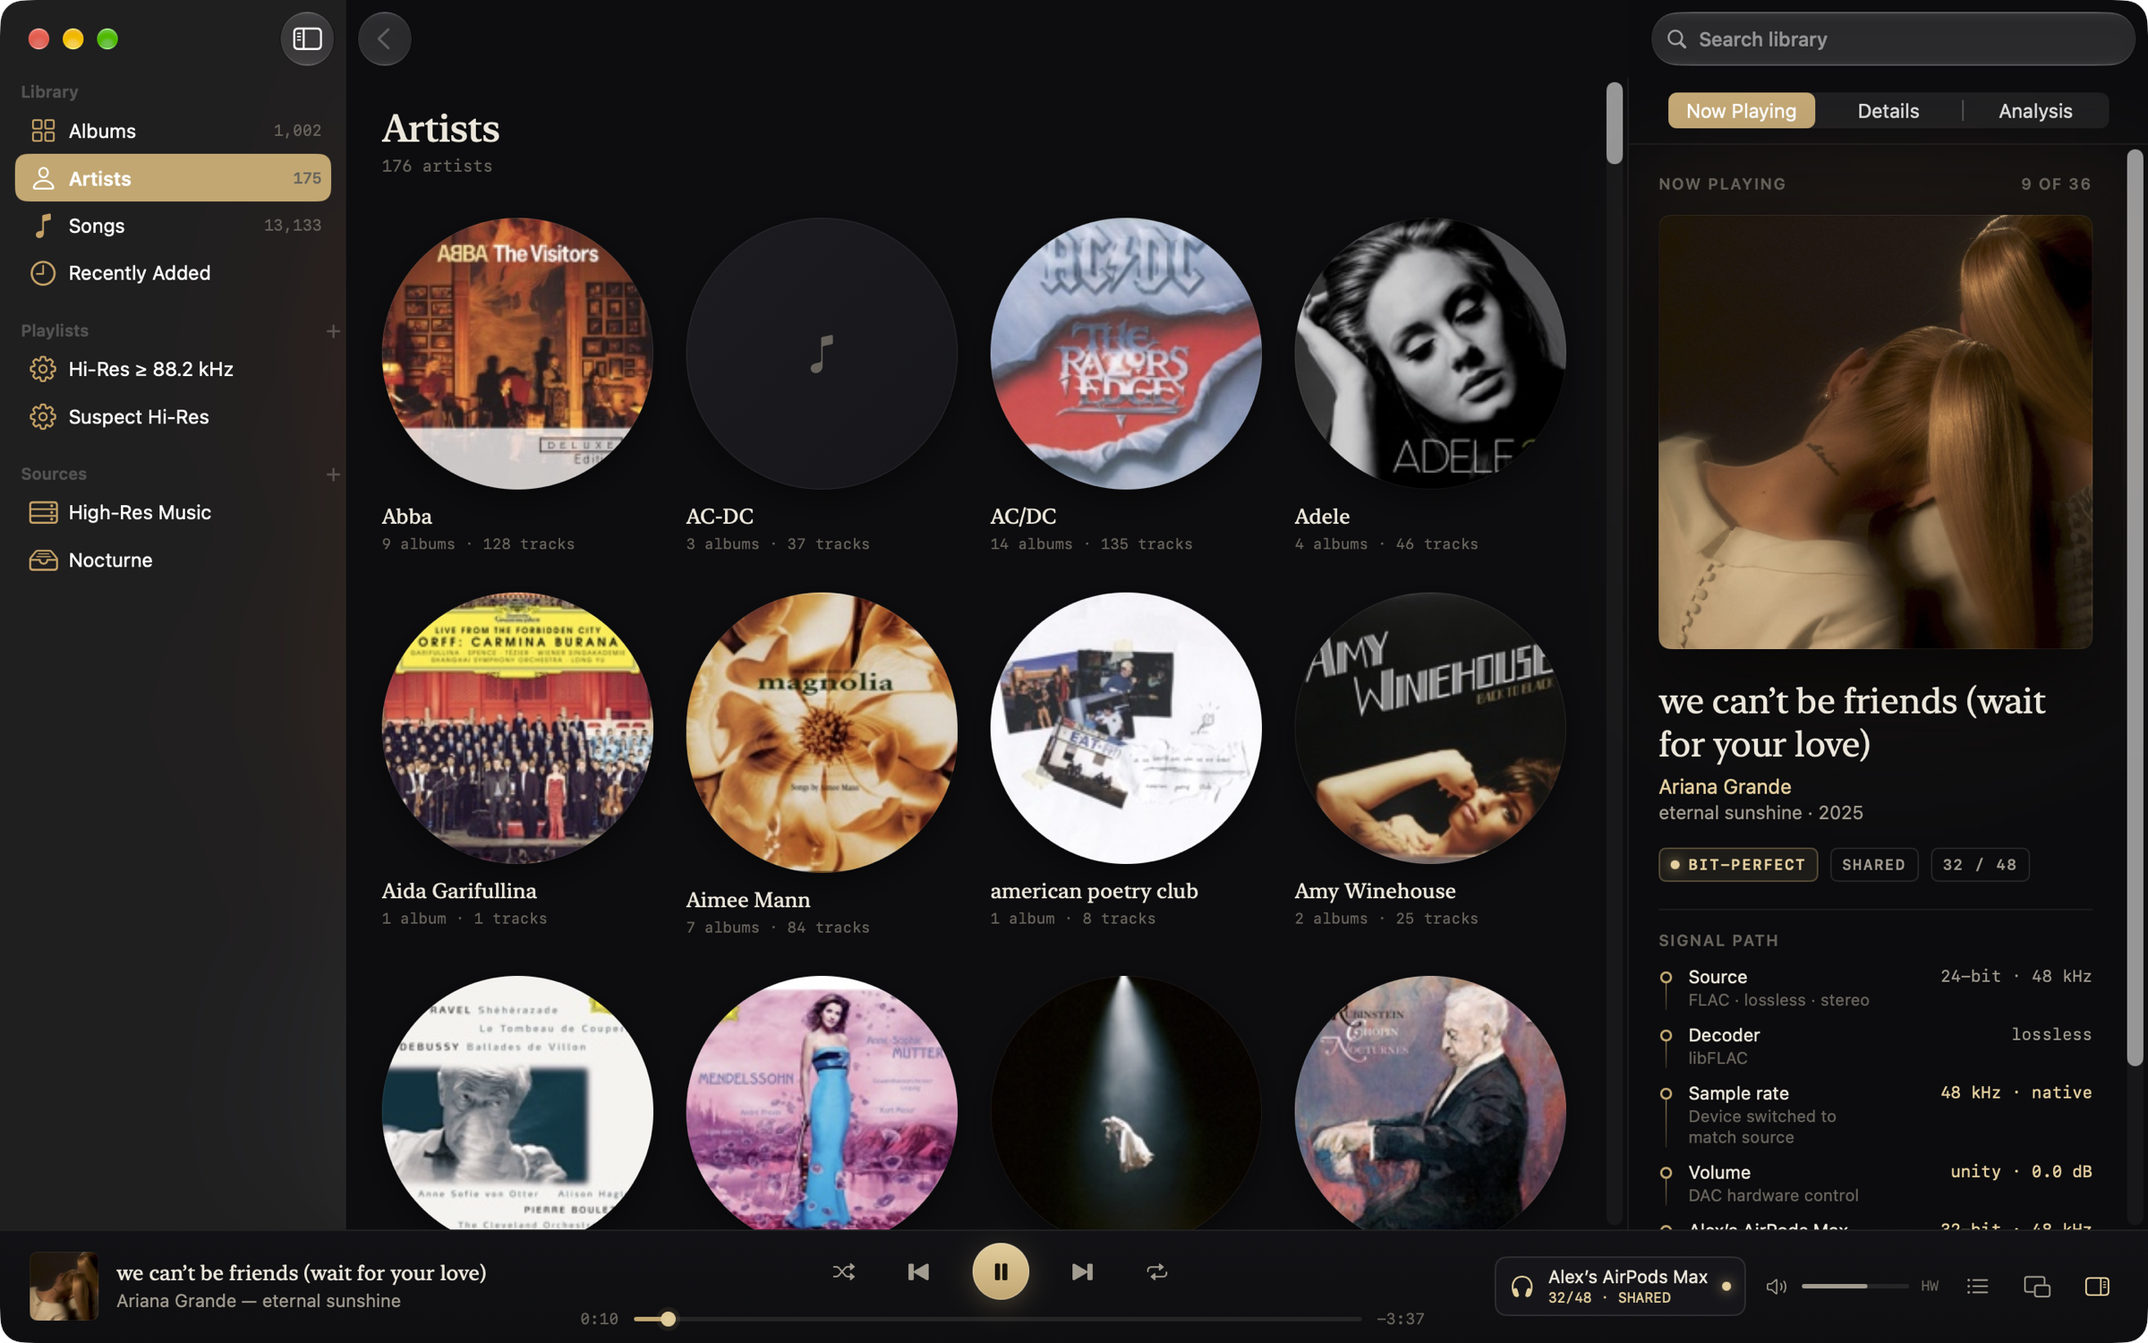
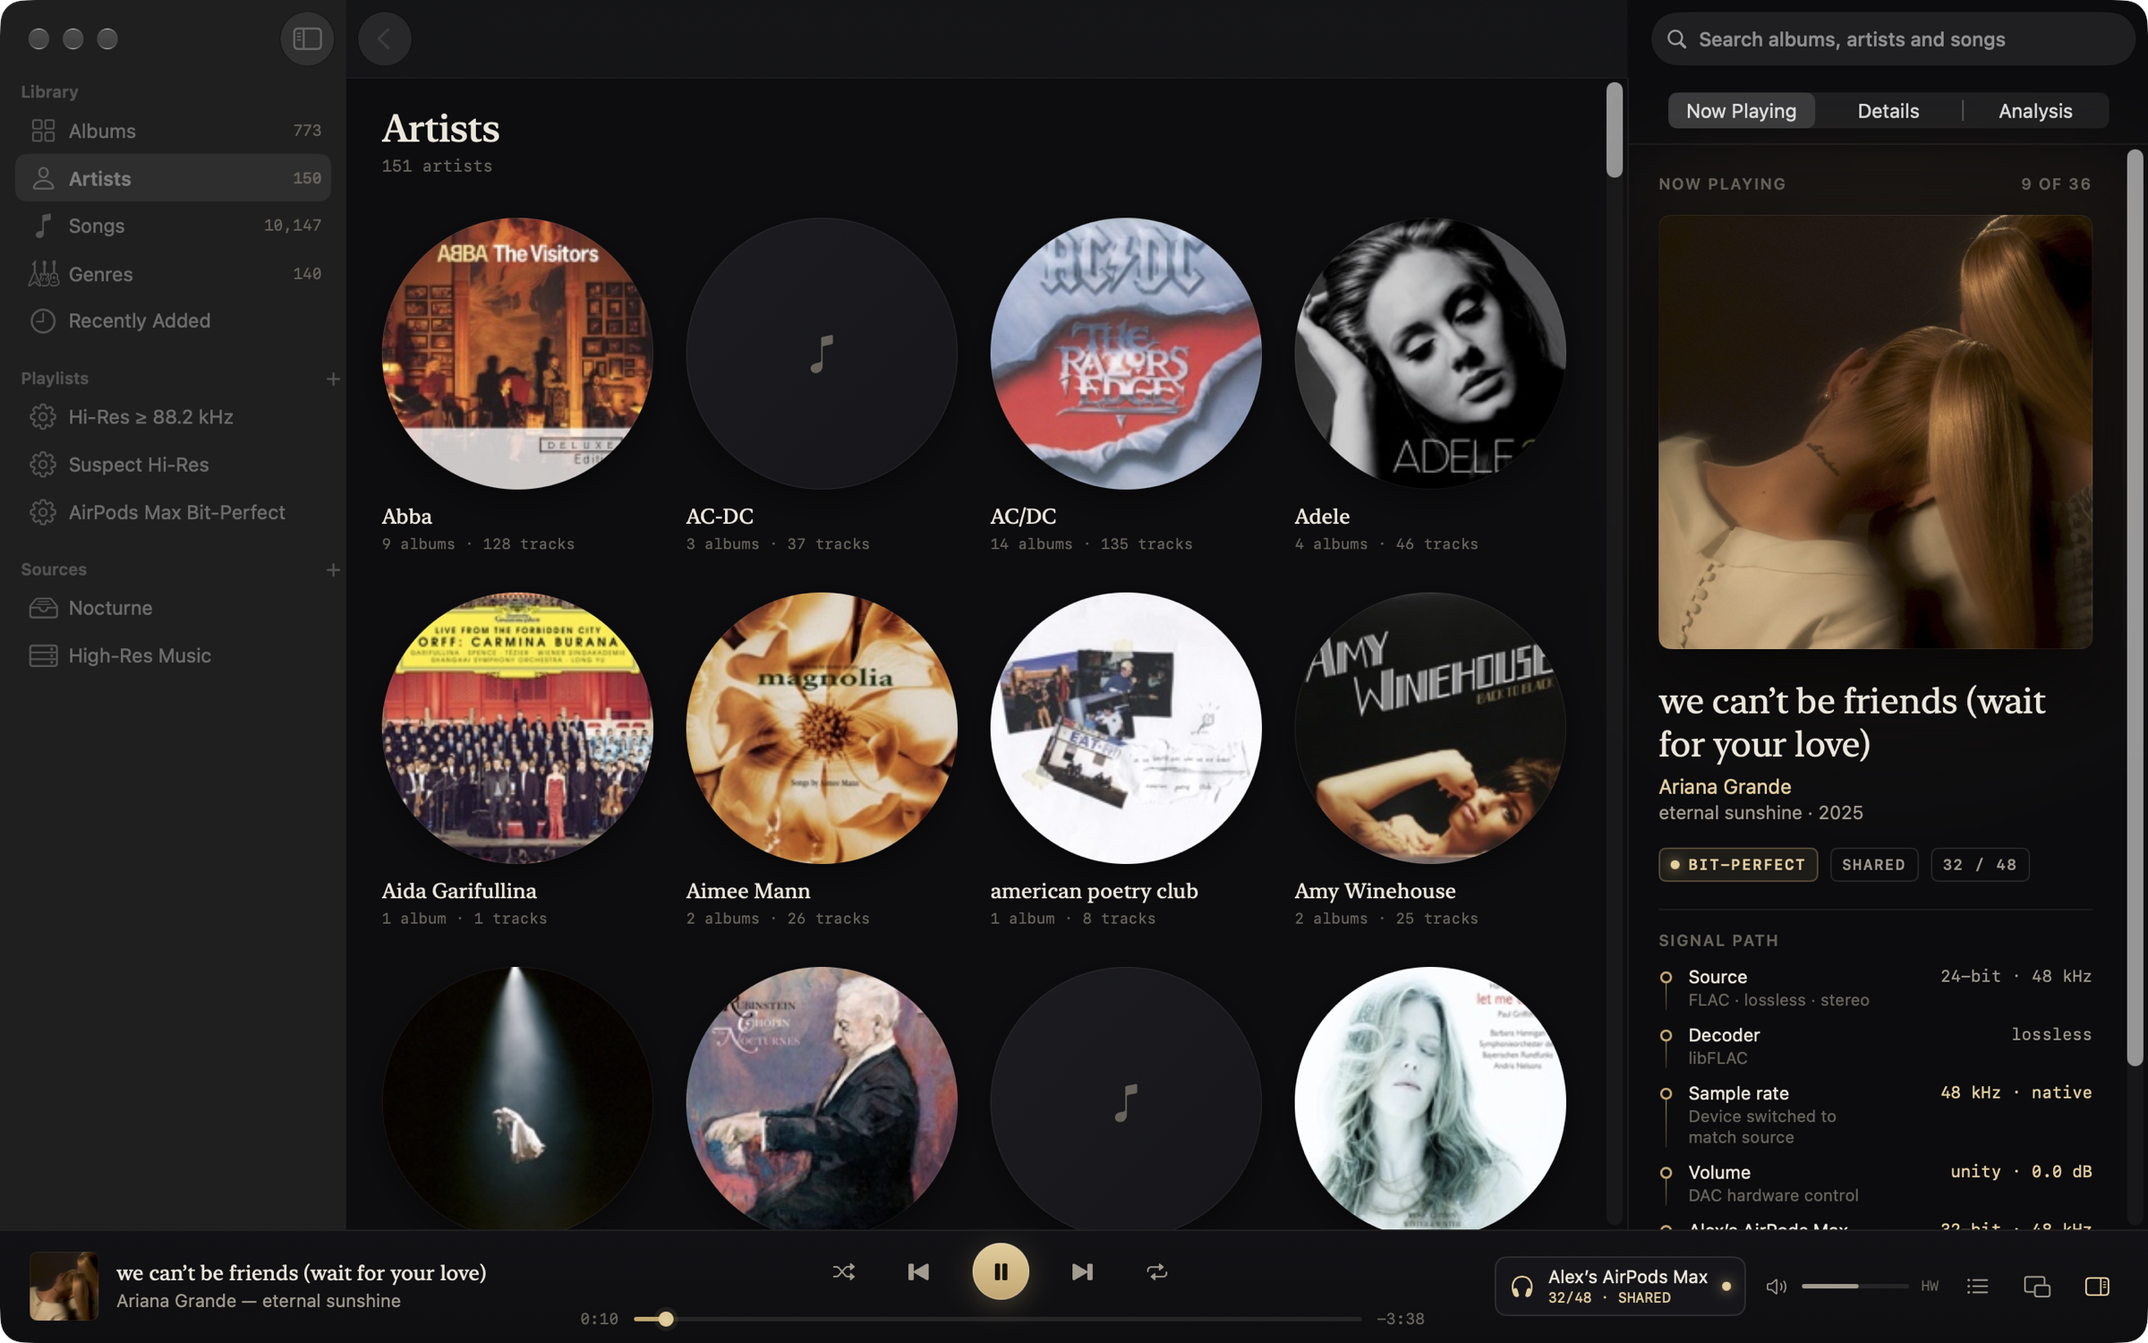
Docs: current screenshots and features; architecture for shares, analysis core, spatial
- Retaken screenshots from the real app (cleaned library): Spatial Audio,
  bit-perfect on FiiO K11 and AirPods Max, fake hi-res analysis; new Genres,
  Search and Smart Playlist shots
- README: genres/search/smart playlists highlights, DAC hand-back, share
  self-healing and rescans, NocturneAnalysis package, audit, CLI commands
- ARCHITECTURE: shared-by-default output, bit-perfect definition, network
  shares, analysis core/server, multichannel, library deletions and genres

diff --git a/README.md b/README.md
@@ -46,6 +46,21 @@ Upsampled, padded, lossy-origin and "AI-enhanced" files are detected, with the e
 
 ![The Analysis tab flagging a track as having synthetic high frequencies, with its long-term spectrum](docs/screenshots/fake-hi-res-detection.png)
 
+### Browse like Apple Music
+Albums, artists, songs and **genres**, with Genre, Decade and format filters. Messy tags are handled: "Hip-Hop" and "hip hop" are one genre, multi-genre tags count under each, and localized genre names are merged.
+
+![The Genres page: a tile per genre with a mosaic of its covers](docs/screenshots/genres.png)
+
+### Search finds everything
+Artists, albums (by title, artist, genre or year) and songs, in one place. Every word you type has to match, ignoring case and accents.
+
+![Searching "fleetwood": the artist, 18 albums and 265 songs](docs/screenshots/search.png)
+
+### Smart playlists that speak your language
+Rules use the units shown everywhere else (48 kHz, 24-bit), so "every 24-bit / 48 kHz track" is one rule away. Here that playlist plays bit-perfect on AirPods Max.
+
+![A smart playlist of every 24-bit / 48 kHz track, playing bit-perfect on AirPods Max](docs/screenshots/smart-playlist.png)
+
 ### A mini player that still tells the truth
 
 <p align="center"><img src="docs/screenshots/mini-player.png" width="520" alt="Nocturne's mini player"></p>
@@ -54,18 +69,19 @@ Upsampled, padded, lossy-origin and "AI-enhanced" files are detected, with the e
 
 - **Automatic device format.** Each track's rate is matched on the device (16/44.1, 24/96, 24/192, 352.8…). If the device can't run at that rate, Nocturne converts with Apple's mastering-quality resampler. It prefers a rate in the same family (44.1 → 88.2), then the nearest higher rate, then an integer divisor (384 → 192). Per-device overrides: *match source*, *device maximum* or a fixed rate.
 - **Shared or exclusive.** By default Nocturne shares the device and makes it the Mac's sound output while it plays, so volume keys, Control Center and the AirPods Max Digital Crown control what you hear. Playback is still bit-perfect unless another app plays through the same device at the same time, and Nocturne says so when that happens. **Exclusive (hog) mode** is one switch away if you'd rather silence other apps on the device (macOS then sends volume keys elsewhere); the device is released after a configurable pause.
+- **Hands your DAC back.** When Nocturne quits, each device it switched goes back to the sample rate and bit depth it had before (so other apps, and tools like LosslessSwitcher, carry on where they left off), or to 44.1 kHz · 16-bit or 48 kHz · 24-bit if you prefer.
 - **AirPods Max / AirPods Max 2 over USB-C.** These are recognized as lossless 24-bit / 48 kHz devices. 48 kHz material plays bit-perfect and everything else is converted to 48 kHz. Over Bluetooth, Nocturne tells you the link is AAC.
 - **DSD.** DSD goes to the DAC as DoP on DACs you mark as DoP-capable (off by default, because DoP sent to a non-DoP DAC is noise). Otherwise it's converted to high-rate PCM.
 - **A truthful signal path.** *BIT-PERFECT* (brass) appears only when the rate is native, nothing touches the samples, no other app is mixing into the device and the word length fits. Every other state is shown in copper with the reason.
 - **Gapless playback** across tracks that share a device format, including CUE-sheet albums split from a single file.
 - **Volume.** Nocturne uses the DAC's hardware volume when it has one. Optionally, a 64-bit dithered digital volume can be enabled; it's clearly marked as not bit-perfect.
 - **Find Music on This Mac.** Spotlight searches every drive. Each file's true format is checked, and hi-res, lossless or all music can be picked by folder or by file. Recordings, prompts, clips and duplicate copies are left out.
-- **Library.** Folders are referenced in place and watched for changes, or you can *Import & Organize* to copy music into `~/Music/Nocturne`. On the same drive the copies are APFS clones and take no extra space. It keeps albums, artists, songs, full-text search (accent-insensitive), playlists and smart playlists. Files on unplugged drives stay in the library and show as offline.
+- **Library.** Folders are referenced in place and watched for changes, or you can *Import & Organize* to copy music into `~/Music/Nocturne`. On the same drive the copies are APFS clones and take no extra space. It keeps albums, artists, songs and genres, with Genre, Decade and format filters; search across artists, albums (title, artist, genre, year) and songs (accent-insensitive); playlists; and smart playlists whose rules use the same units as the rest of the app. Files on unplugged drives stay in the library and show as offline; files you delete disappear from every list on the next scan (and come back if you restore them).
 - **Rich metadata editing** for single tracks or batches, written into the files via TagLib (Vorbis comments, ID3v2, MP4, APE). It covers artwork, sort fields, lyrics and custom tags. Each file is cloned to a backup (instant on APFS) and the previous tags are kept for one-step revert.
 - **Enrich Metadata.** Missing titles, artists, albums, years, track numbers and cover art are filled in from structured file names and **MusicBrainz / Cover Art Archive**. Each proposal shows its source and confidence before anything is written.
 - **MusicBrainz and Cover Art Archive** lookup and correction, and **ListenBrainz** scrobbling (optional; the token is kept in the Keychain).
 - **Multichannel and Spatial Audio.** 5.0, 5.1, 7.1 and other multichannel files play everywhere: rendered with Apple's Spatial Audio (head tracked or fixed, with your personalized profile) on AirPods and Beats, sent channel-for-channel to multichannel interfaces and AV receivers (following your speaker setup, even when HDMI is left in 2-channel mode), or downmixed by layout on stereo DACs. The signal path always says which, with a live meter for every channel. **Export for Spatial Audio** turns them into binaural stereo that sounds spatial on any headphones, or multichannel ALAC for Apple devices.
-- **Network shares.** Connect to SMB, NFS or WebDAV shares on your network or over Tailscale/VPN (⌘K). Read-only by default, reconnects by itself, indexes quickly over slow links, rides out slow reads without stuttering, and caches what you play (with **Keep Offline** for whole albums).
+- **Network shares.** Connect to SMB, NFS or WebDAV shares on your network or over Tailscale/VPN (⌘K). Read-only by default and mounted where macOS keeps network volumes (hidden from the Finder sidebar). They heal themselves: Nocturne reconnects after sleep, network changes and server restarts, and remounts a share that has stopped answering. Shares are rescanned every half hour (never while you're playing from them), so music added to or deleted from the server shows up by itself. Indexing is quick over slow links, playback rides out slow reads without stuttering, and what you play is cached (with **Keep Offline** for whole albums). Passwords live in the login keychain alongside Finder's.
 - **Fake hi-res detection.** Finds a file's true bit depth (16-bit padded into 24-bit), upsampled "hi-res", lossy-origin files, and "enhanced" files whose high frequencies were synthesized (SBR or AI upscaling). Every verdict shows its evidence; results are saved, can run automatically on import, and filter the Songs view. A *Suspect Hi-Res* smart playlist collects them. For music on a NAS or server, `nocturne-analyze` runs the same analysis next to the files and Nocturne imports the results, so nothing is read over the network. [How it works](docs/ANALYSIS.md).
 - **Live spectrum** of exactly what the DAC receives, plus a mini player, a menu-bar extra and full Now Playing / media-key integration.
 
@@ -85,11 +101,17 @@ Or build from the command line:
 xcodebuild -project Nocturne.xcodeproj -scheme Nocturne -configuration Release -derivedDataPath build/DD build
 ```
 
-Run the engine and library tests:
+Run the engine and library tests, and the analysis core's (it also builds on Linux):
 
 ```bash
 cd Packages/NocturneKit && swift test
 ```
+
+```bash
+cd Packages/NocturneAnalysis && swift test
+```
+
+`scripts/audit.sh` runs everything above plus the app tests, sanitizer builds of the real-time C code and a release build.
 
 ## Try it without your own music
 
@@ -126,9 +148,10 @@ cd Packages/NocturneKit && swift build -c release --product nocturne-probe
 - `hires` lists every hi-res file;
 - `search <term>` searches tags;
 - `import --library <dir> --into <dir> <files…>` imports;
-- `enrich --library <dir> [--apply high|all]` enriches.
+- `enrich --library <dir> [--apply high|all]` enriches;
+- `import-server-analysis --library <dir>` imports a share's server analysis results.
 
-`gapless <device> <files…>` plays a queue and reports hand-offs and underruns. `analyze <files…>` runs the analysis; `forensics <files…>` prints its raw measurements as a table.
+`gapless <device> <files…>` plays a queue and reports hand-offs and underruns. `analyze <files…>` runs the analysis (`analyze-json` prints it as JSON, for comparing with `nocturne-analyze file`); `forensics <files…>` prints its raw measurements as a table; `restore-test <device>` checks the quit options that hand a device back.
 
 `scripts/qa-run.sh` and `App/Sources/App/DeveloperHooks.swift` hold the launch arguments used for visual QA. They can open albums, start playback, select inspector tabs and render windows to PNG, which works even while the screen is locked.
 
@@ -159,8 +182,9 @@ Store that file somewhere safe (it is a secret), then delete it.
 | Path | What |
 |---|---|
 | `Packages/NocturneKit/Sources/CNocturneRT` | Real-time C: lock-free ring buffer, HAL IOProc, dithered gain, meters, spectrum tap |
-| `Packages/NocturneKit/Sources/NocturneAudio` | Device discovery, exclusive mode, format switching, `FormatPlanner`, `PlaybackEngine`, analysis |
-| `Packages/NocturneKit/Sources/NocturneLibrary` | GRDB/SQLite library, scanner, CUE, tag writer, smart playlists, MusicBrainz/ListenBrainz |
+| `Packages/NocturneKit/Sources/NocturneAudio` | Device discovery, shared/exclusive output, format switching, `FormatPlanner`, `PlaybackEngine`, Spatial Audio, decoding for analysis |
+| `Packages/NocturneKit/Sources/NocturneLibrary` | GRDB/SQLite library, scanner, CUE, tag writer, genres, smart playlists, network shares, server-analysis import, MusicBrainz/ListenBrainz |
+| `Packages/NocturneAnalysis` | The analysis core (spectra, forensics, verdicts) in plain Swift, plus `nocturne-analyze` for Linux servers |
 | `App/` | SwiftUI app (Obsidian & Brass design) |
 | `docs/` | Architecture notes, design mockups, screenshots |
 

diff --git a/docs/ARCHITECTURE.md b/docs/ARCHITECTURE.md
@@ -10,7 +10,7 @@ file ─▶ SFBAudioEngine decoder ─▶ [DoP / DSD→PCM wrapper] ─▶ [CUE 
 
 1. **Probe.** `SourceOpener.probe` opens the file and reports its true `SourceFormat`: codec, lossless/lossy/DSD, rate, bit depth and channels.
 2. **Plan.** `FormatPlanner.plan` (pure and unit-tested) combines the source with the device's `DeviceCapabilities` (discrete nominal rates, physical formats, DoP opt-in) and the per-device `RatePolicy`. It produces an `OutputPlan`: device rate, physical bit depth, PCM or DoP, and whether SRC or DSD→PCM conversion is needed.
-3. **Configure.** `OutputSession` takes hog mode, sets the stream's physical format (preferring integer at the planned depth), sets and verifies the nominal rate, ensures a Float32 virtual format, and installs `nrt_device_ioproc`.
+3. **Configure.** `OutputSession` takes hog mode only in exclusive mode (shared is the default, so the device can stay the Mac's sound output), sets the stream's physical format (preferring integer at the planned depth), sets and verifies the nominal rate, ensures a Float32 virtual format, and installs `nrt_device_ioproc`. `DeviceRestore` remembers each device's format before the first change, so it can be put back when Nocturne quits.
 4. **Decode.** The engine thread pulls decoded audio through `AVAudioConverter`. With equal rates the converter only changes the sample format; integer PCM up to 24 bits maps exactly into Float32, which a unit test verifies sample-for-sample. With different rates it uses `AVSampleRateConverterAlgorithm_Mastering` at maximum quality.
 5. **Render.** The IOProc copies from the ring buffer into the device buffer. Gain of exactly 1.0 is a straight copy. Any other gain is applied in double precision with TPDF dither at the DAC's word length. DoP is always passthrough.
 
@@ -28,7 +28,8 @@ Track changes are reported when the new segment becomes *audible*, not when it i
 A path is marked bit-perfect only when all of these hold:
 
 - The device profile can be bit-perfect (i.e. not Bluetooth or AirPlay).
-- The device is held exclusively.
+- The device is held exclusively, or (shared mode) no other process is currently sending audio to it (Core Audio process objects, checked about once a second).
+- No Spatial Audio rendering or downmix.
 - No software gain is applied (neither ReplayGain nor digital volume).
 - For PCM: the source is lossless, it isn't resampled or converted from DSD, the source is at most 24-bit, and the device's physical format can hold it (an integer format at least as deep as the source, or 32-bit float).
 - For DoP: the carrier runs at the planned rate with at least 24 bits.
@@ -39,8 +40,25 @@ The library is SQLite via GRDB:
 
 - The `track` table has generated sort and grouping columns, FTS5 search (accent-insensitive) and JSON columns for custom tags.
 - Albums are aggregated in SQL rather than stored.
-- `LibraryScanner` is incremental (it compares size and modification time), splits single-file CUE albums into region tracks, and flags vanished files as missing instead of deleting them.
+- `LibraryScanner` is incremental (it compares size and modification time), splits single-file CUE albums into region tracks, and flags vanished files as missing instead of deleting them: they disappear from every list, playlists included, and come back with their analyses if the files return. A scan interrupted by a dropped share marks nothing missing.
+- Genres are normalized in `Genres` (case, accents, hyphens, slash order, ID3 numbers, localized Apple names) for browsing, filters and search.
+- Smart playlist rules compile to SQL; sample rates are entered in kHz, and a rule without a usable value matches nothing.
 - `TagWriter` writes tags with TagLib through SFBAudioEngine. Beforehand it takes an APFS clone of the file (free on the same volume) and stores the previous tags in `tagHistory` for revert.
+
+## Multichannel and Spatial Audio
+
+`FormatPlanner` sends every channel to devices that can carry them (following the speaker layout from Audio MIDI Setup, and counting an HDMI receiver's channel capacity even in 2-channel mode), downmixes by channel layout on stereo devices, and on AirPods and Beats renders the channels with Apple's spatial mixer (`AUSpatialMixer`, head tracked or fixed) inside the I/O callback, through a C hook, so head tracking responds instantly.
+
+## Network shares
+
+- `NetworkVolume` mounts with NetFS: soft, read-only by default, hidden from the Finder sidebar, in `/Volumes`. Current macOS refuses mounts inside an app's Application Support folder (protected app data), so mounting there would work once and never again.
+- Passwords are internet-password items in the **login** keychain (queried explicitly: an app's plain SecItem calls go to the data-protection keychain, where Finder's share passwords never are).
+- `NetworkShareManager` heals connections: it reconnects on launch, wake and network changes, remounts a share that disappeared, force-remounts one that is still listed but no longer answers, and rescans connected shares every 30 minutes (and after the server's analysis run), never while music plays from them. File-system events don't cross the network; these rescans are how additions and deletions on the server appear.
+- Playback from a share buffers more before starting, holds in silence and resumes exactly where it stopped if reads stall, and gets priority over caching and analysis.
+
+## File analysis
+
+The analysis core lives in `Packages/NocturneAnalysis` (plain Swift and Foundation): spectra (Accelerate on Apple platforms, a portable FFT elsewhere, tested to agree), the forensic measurements, a chunk-independent sample accumulator and the verdicts. The app decodes with SFBAudioEngine and feeds it. On a server, `nocturne-analyze` decodes with ffmpeg and feeds the same core, writing `<share>/.nocturne/analysis.jsonl`; the app imports matching records (path, size, modification time) and leaves that share's files to the server. See [ANALYSIS.md](ANALYSIS.md).
 
 ## Threading
 
